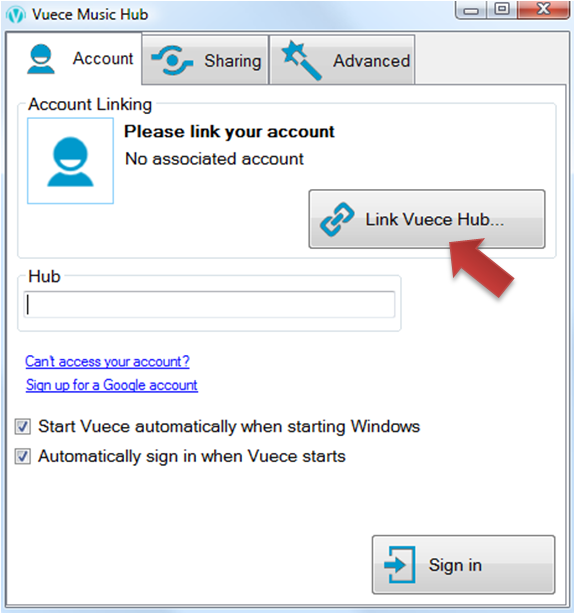
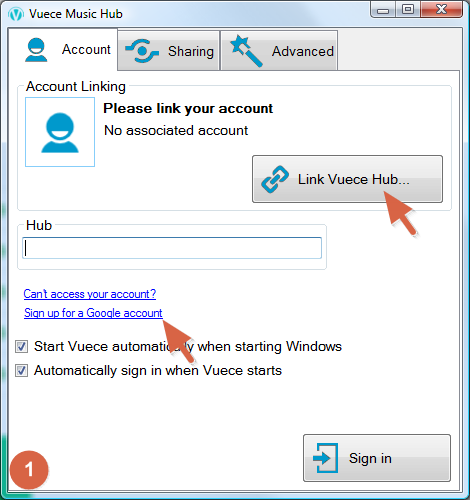
updating conent for hub

Changed region(s): [[0.0, 0.0, 1.0, 1.0], [0.6851, 0.45, 0.7149, 0.54]]

diff --git a/hub.html b/hub.html
@@ -7,19 +7,19 @@ slug: hub
 <h1>Vuece Hub</h1>
 </div>
 
-<h2 class="icon-title">Link Account</h2>
+<h2 class="icon-title">Linking Account</h2>
 
-  	<p id="vuecep">Ready to get started with Vuece Hub? The first step is to link Vuece Hub with your current <a href="https://accounts.google.com/signup">Google account</a></p>
+  	<p id="vuecep">Ready to get started with Vuece Hub? The first step is to link Vuece Hub with your current <a href="https://accounts.google.com/signup">Google Account</a></p>
   	
   	<h3 class="icon-title">Step 1. <b>Start Vuece Hub Application</b></h3>
   	
-    <img src="img/user_manual/pc/link_account1a.png">    
-  	<p id="vuecep">Click <b>'Link Vuece Hub'</b> to start the account linking procedure. If you don't have a Google account at all, click 'Sign up for a Google Account' or <a href="https://accounts.google.com/signup" target="_blank">click here to start creating your Google account</a>.</p>
+    <img src="img/user_manual/pc/link_account1.png">    
+  	<p id="vuecep">Click <b>'Link Vuece Hub...'</b> to start the account linking procedure. If you don't have a Google Account, click 'Sign up for a Google Account' or <a href="https://accounts.google.com/signup" target="_blank">click here to start creating your Google Account</a>.</p>
 	
 	<h3 class="icon-title">Step 2. <b>Sign in with your Google Account</b></h3>
 	
     <img src="img/user_manual/pc/link_account2.png">    
-  	<p id="vuecep">A dialog will pop up for your to sign in with your existing Google account, fill in your Google email address and password correctly, then click 'Sign in'</p>
+  	<p id="vuecep">A dialog will pop up for your to sign in with your existing Google Account, fill in your Google email address and password correctly, then click 'Sign in'</p>
 
 	<h3 class="icon-title">Step 3. <b>Authorize</b></h3>
 
@@ -31,13 +31,13 @@ slug: hub
 	<img src="img/user_manual/pc/hub_name.png">    
   	<p id="vuecep">Congratulations! Your have successfully linked your Goolge account with Vuece Hub. You should see your Google user information is updated on Vuece Hub. Now it's time to give your new Vuece Hub a name so your friends can easily identify the owner of your Hub.</p>
 
-<h2 class="icon-title">Share Folders</h2>
+<h2 class="icon-title">Sharing Folders</h2>
 
     	<p id="vuecep">Before you can play any music on you Android device using Vuece Music app, you need to share your music files via Vuece Hub so you or your friends can remotely browse and play your music.</p>
     	
     	<h3 class="icon-title">Step 1. <b>Add music folders </b></h3>
-		<img src="img/user_manual/pc/share_folders.png">    
-    	<p id="vuecep">Click 'Add' to choose and add your music folders in you PC, or simply drag and drop music folders to 'Public folder list' section.</p>
+		<img src="img/user_manual/pc/add_folders.png">    
+    	<p id="vuecep">Click 'Add' to choose and add your music folders in you PC, or simply <b>drag and drop</b> music folders to 'Public folder list' section.</p>
 		
 		<h3 class="icon-title">Step 2. <b>Scan music files </b></h3>
 		<img src="img/user_manual/pc/scan.png">    
@@ -45,6 +45,6 @@ slug: hub
 
 <h2 class="icon-title">Access Control</h2>
 
-    	<p id="vuecep">In 'Advanced' tab, you can decide whether or not to allow you friends to access and play your music file, and decide how may users can play your music concurrently.</p>
+    	<p id="vuecep">In 'Advanced' tab, you can decide whether or not to allow you friends to access and play your music file, and specify how may users can play your music concurrently.</p>
     	<p id="vuecep">Steps</p>
 		<img src="img/user_manual/pc/advanced.png">    
